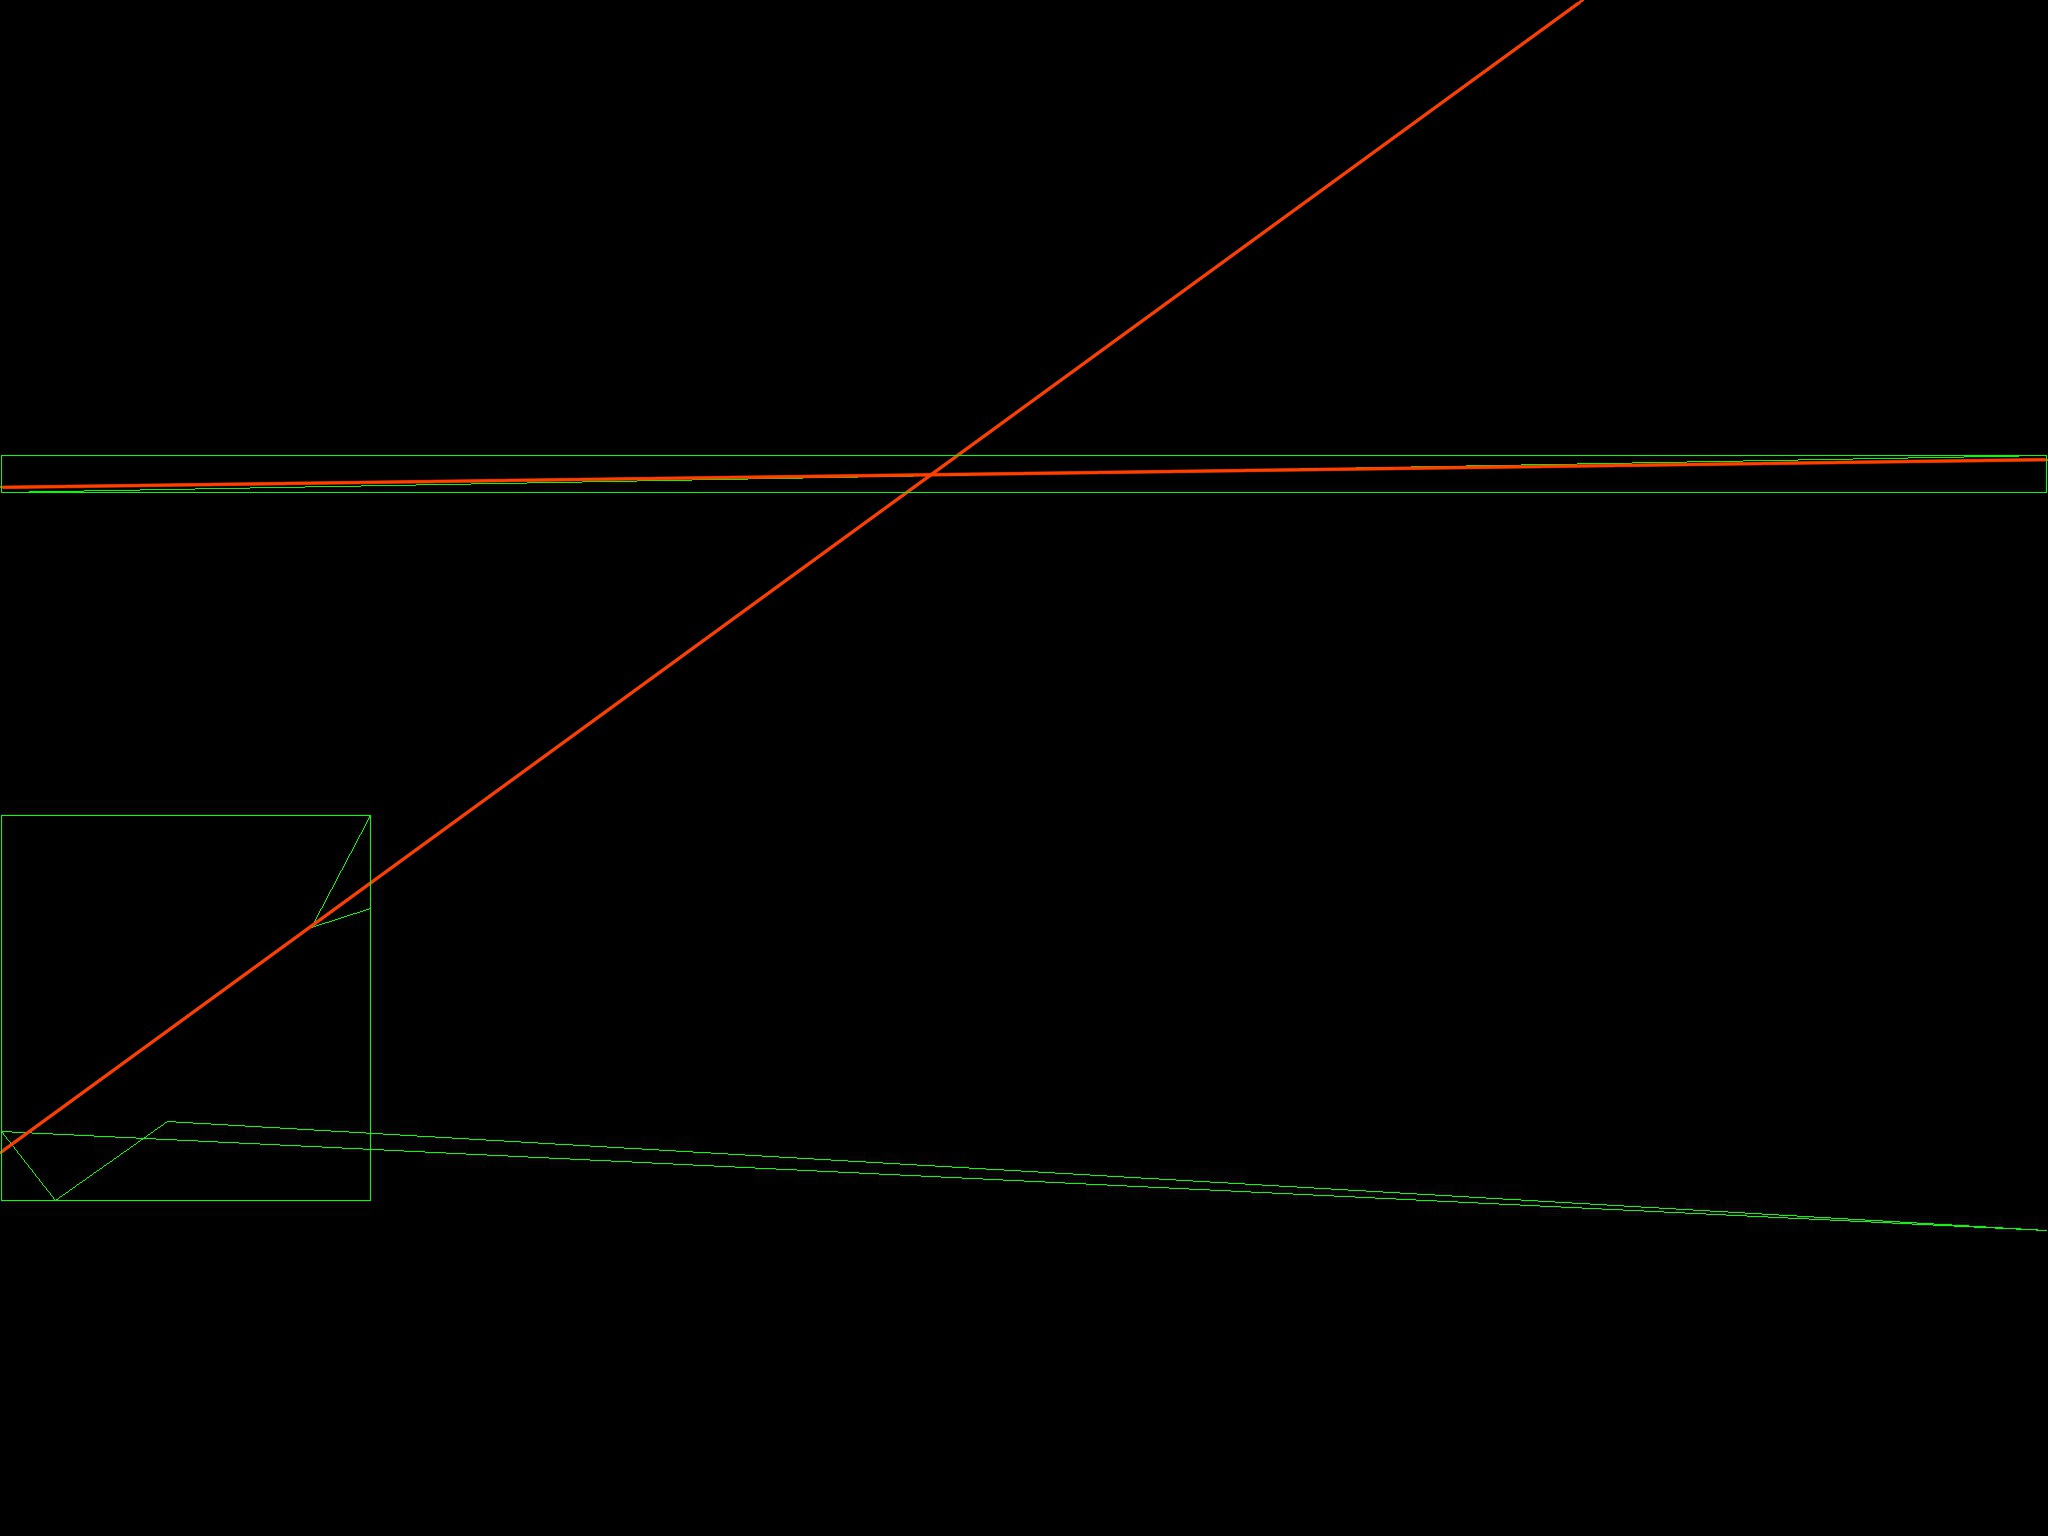
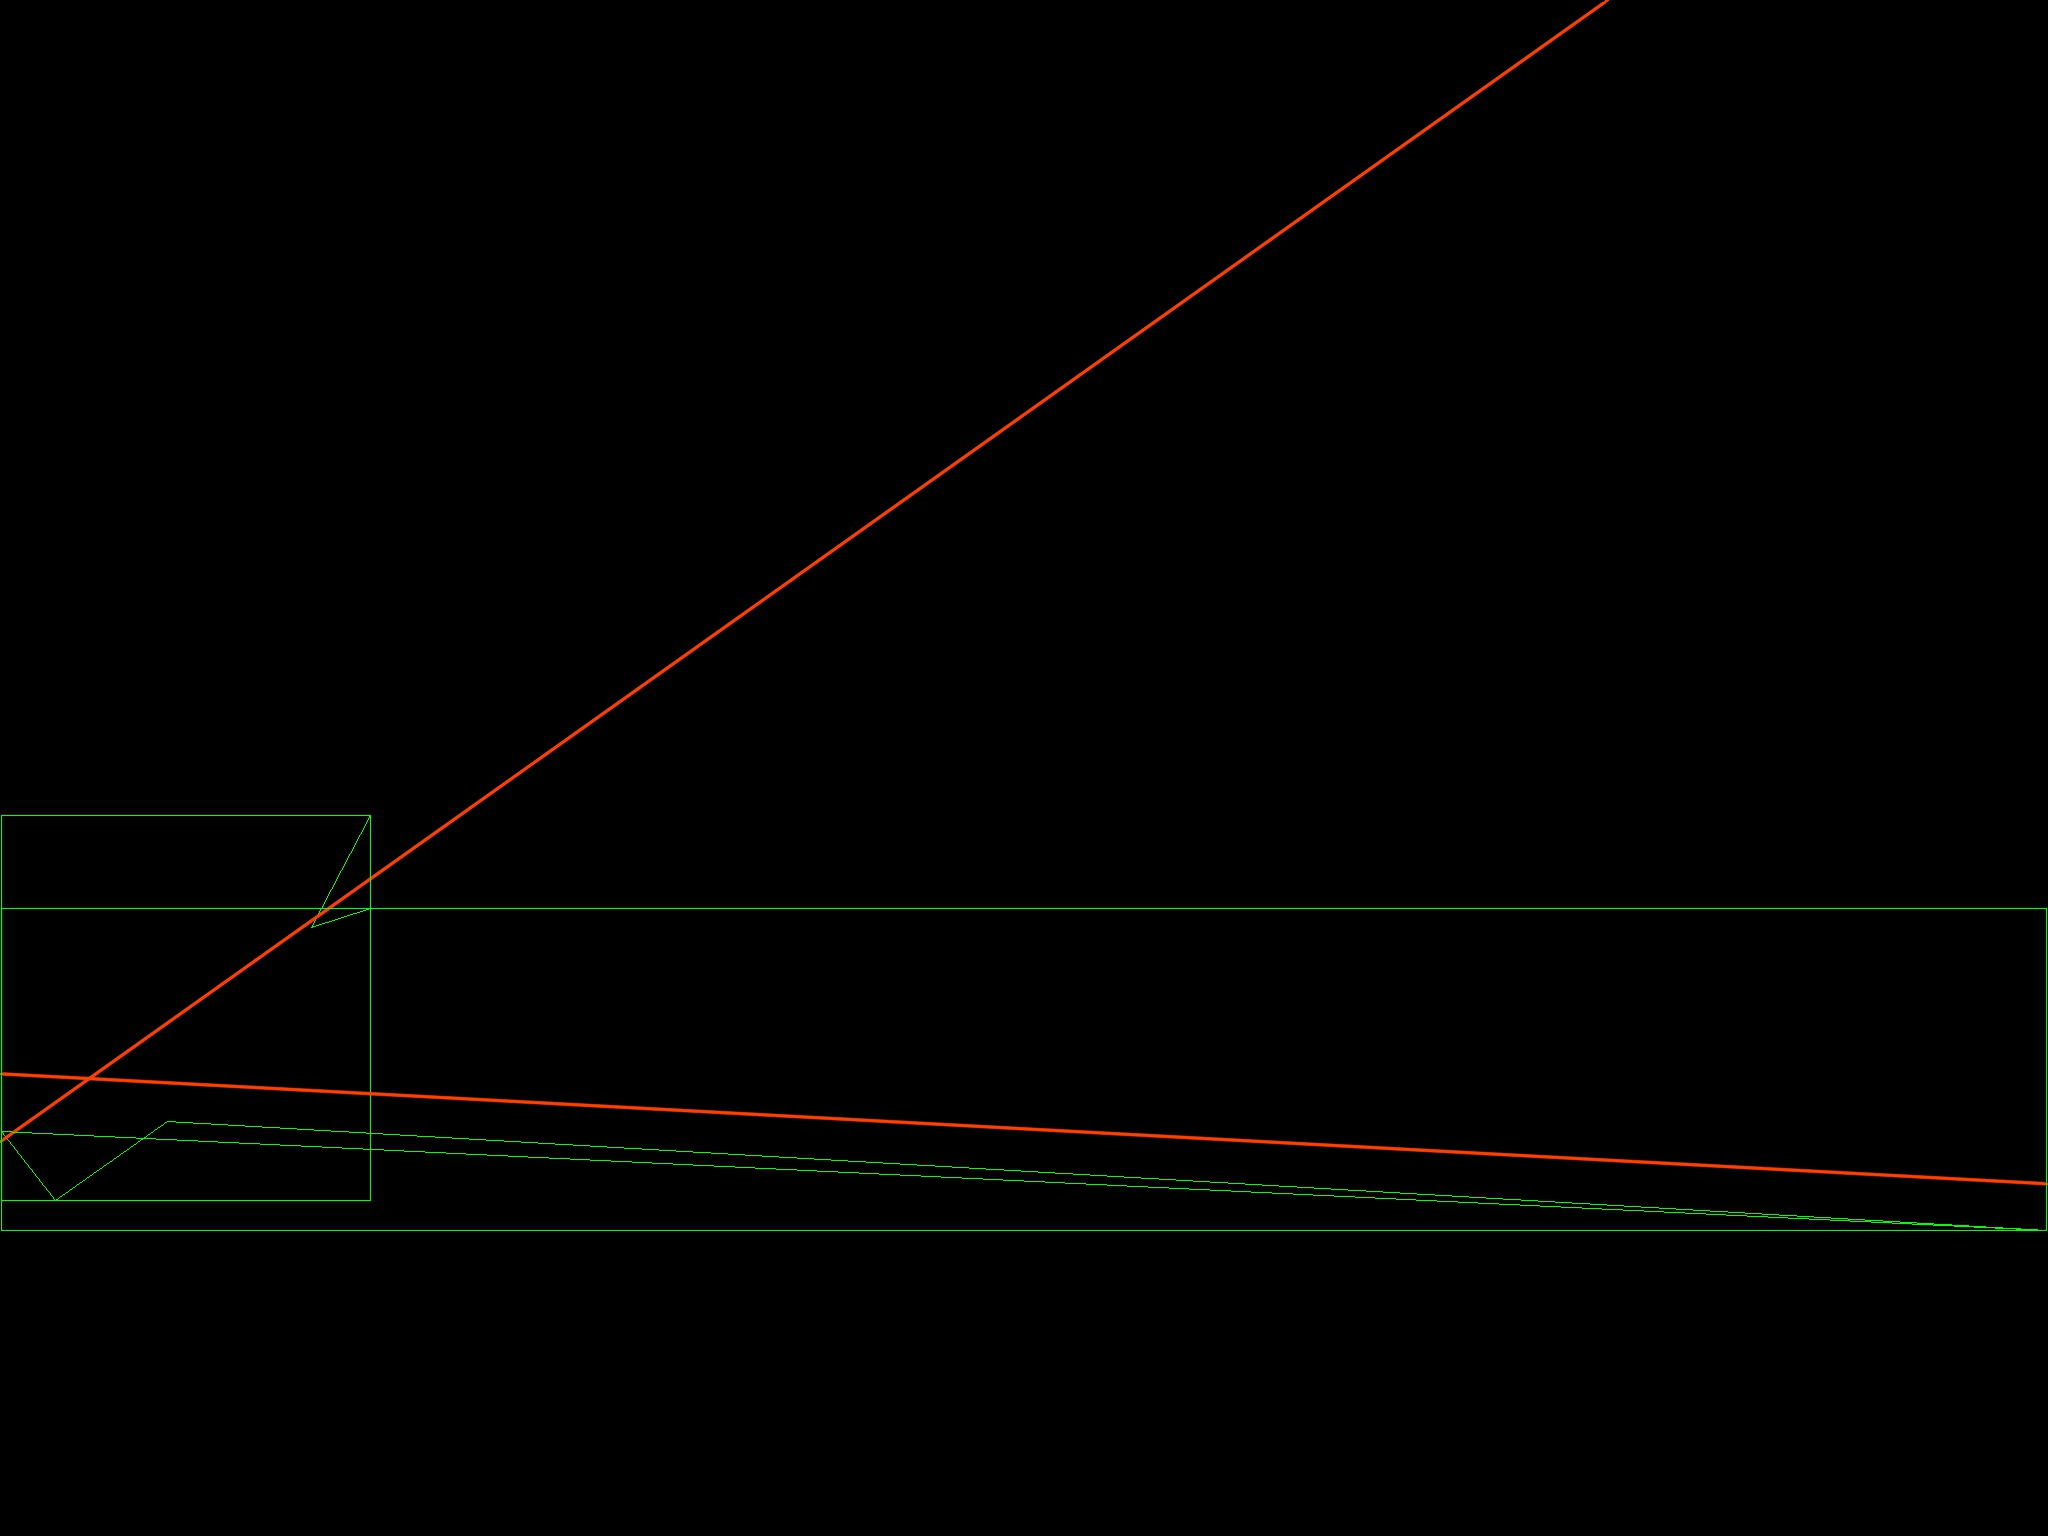
yep! go on Dancho...
may the force be with you

suck Shawn, suck

diff --git a/ocr/longest_closed.cc b/ocr/longest_closed.cc
@@ -43,6 +43,12 @@ Mat coord_clusters_munge ( Size size,
                            std::vector < std::vector<cv::Point> > contours_l0, std::vector < std::vector<cv::Point> > contours_l1,
                            Mat_<float> angles0, Mat_<float> angles1
                            );
+static void deal_with_geometry_when_not_enough_90d_angles(
+                                                          Size mat_size,
+                                                          std::vector<std::vector<cv::Point> > contoursDraw2,
+                                                          std::vector<double> len_contours_contoursDraw2,
+                                                          double min_line_length);
+
 // start here
 void longest_closed()
 {
@@ -123,7 +129,7 @@ void longest_closed()
    double min_line_length = max(mat.size().width, mat.size().height)/10.0;
    int min_closed_line_len = (mat.size().width + mat.size().height);
 
-   // filters out lines shorter than 200 px, straightens lines with approxPoly to contoursDraw(2), pushes to contours_long if > 5000 px..
+   // fills contoursDraw2 :: filters out lines shorter than 200 px, straightens lines with approxPoly to contoursDraw(2), pushes to contours_long if > 5000 px..
    for (int i=0; i < (int)contours.size(); i++){
 
      len = cv::arcLength(contours[i], true);
@@ -157,52 +163,92 @@ void longest_closed()
    // OK, this is the dotted line connection and expansion algorithm
    if ( _angle90_count<2 ) {
 
-     Mat_<float> angles, angles0, angles1;
-     Mat_<double> angle_centers;
-     Mat_<int> labels = angle_clusters(contoursDraw2, angles, angle_centers); /*DONE - go on from here - add centers as ref param*/
-     // std::cout << "angles ref: " << angles << ", angle centers: " << angle_centers  << std::endl;
-
-     std::vector< std::vector<cv::Point> > contours_l0;
-     std::vector< std::vector<cv::Point> > contours_l1;
-     double len_sum0=0.0, len_sum1=0.0;
-
-     for(int j=0; j<labels.rows; ++j){
-
-       if(labels(j,0)==0){
-         contours_l0.push_back(contoursDraw2[j]);
-         angles0.push_back(angles(j,0));
-         len_sum0+=len_contours_contoursDraw2[j];
-       }else if(labels(j,0)==1){
-         contours_l1.push_back(contoursDraw2[j]);
-         angles1.push_back(angles(j,0));
-         len_sum1+=len_contours_contoursDraw2[j];
-       }
-     } /*separate / divide into 2 groups with approximate 90 degree alignment */
-
-     std::cout << "angle_centers: " << angle_centers << "\n angles0: " << angles0 << ',' << "angles1: " << angles1 << "c0 and c1 sizes: " << contours_l0.size() << ',' << contours_l1.size() << "\nlen_sum0, len_sum1: " << len_sum0 << ',' << len_sum1 << "\nmin_line_length*5: " << min_line_length*5 << std::endl;
-
-     std::vector< std::vector<cv::Point> > dumm; Mat_<float> angles_dumm; /*2 dummies used as null pointers - no time to learn c++ :) */
-
-     if( contours_l0.size()>1 && len_sum0>min_line_length*5 )
-       coord_clusters( mat.size(), contours_l0, angles0, angle_centers(0,0)); /*DONE then pass center[0] or centers[1] here...*/
-     else if( contours_l0.size()<2 && len_sum0>min_line_length*5 ){
-       coord_clusters_munge( mat.size(), contours_l0, dumm, angles0, angles_dumm );
-     }
-
-     if( contours_l1.size()>1 && len_sum1>min_line_length*5 )
-       coord_clusters( mat.size(), contours_l1, angles1, angle_centers(1,0)); /*DONE then pass center[0] or centers[1] here...*/
-     else if( contours_l1.size()<2 && len_sum1>min_line_length*5 ){
-       coord_clusters_munge( mat.size(), contours_l1, dumm, angles1, angles_dumm );
-     }
+     deal_with_geometry_when_not_enough_90d_angles( mat.size(), contoursDraw2, len_contours_contoursDraw2, min_line_length);
    }
 
    cv::drawContours(poly, contoursDraw2, -1, cv::Scalar(0,255,0),1);
-   // cv::drawContours(poly, contours_l0, -1, cv::Scalar(0,255,0),1);
    cv::drawContours(clong, contours_long, -1, cv::Scalar(0,255,0),1);
 
    cv::imwrite( "./img_pre/long2.jpg", drawing);
    cv::imwrite( "./img_pre/long3.jpg", poly);
    cv::imwrite( "./img_pre/long4.jpg", clong);
+}
+
+// splits contours to dotted lines, no matter if closed or not - should get just a collection of 2 point straight vanilla lines
+static void split_contours_2_dotted_lines( std::vector<std::vector<cv::Point> > &contoursDraw2, std::vector<double> &len_contours_contoursDraw2 ){
+
+  std::vector<std::vector<cv::Point> > contoursDraw3;
+  std::vector<cv::Point> line_tmp;
+  std::vector<double> len_contours_contoursDraw3;
+
+  for ( int i=0; i < (int)contoursDraw2.size(); i++ ) {
+
+    if ( contoursDraw2[i].size()<3 ){
+      contoursDraw3.push_back(contoursDraw2[i]);
+      len_contours_contoursDraw3.push_back( arcLength(contoursDraw2[i], false) );
+      continue;
+    }
+    int ssize = (int)contoursDraw2[i].size();
+    for ( int j=0; j<ssize; ++j ) {
+      line_tmp.clear();
+      line_tmp.push_back( contoursDraw2[i][j] );
+      (j<ssize-1) ? line_tmp.push_back( contoursDraw2[i][j+1] ) : line_tmp.push_back( contoursDraw2[i][0] ); /*connect last dot to first one???*/
+      contoursDraw3.push_back( line_tmp  );
+      len_contours_contoursDraw3.push_back( arcLength(line_tmp, false) );
+    }
+  }
+
+  contoursDraw2 = contoursDraw3;
+  len_contours_contoursDraw3 = len_contours_contoursDraw2;
+}
+
+static void deal_with_geometry_when_not_enough_90d_angles(
+                                                          Size mat_size,
+                                                          std::vector<std::vector<cv::Point> > contoursDraw2,
+                                                          std::vector<double> len_contours_contoursDraw2,
+                                                          double min_line_length
+                                                          ){
+
+  // shall we work? - well :) maybe - c u next time :) suck Shawn, suck
+  split_contours_2_dotted_lines ( contoursDraw2, len_contours_contoursDraw2 );
+
+  Mat_<float> angles, angles0, angles1;
+  Mat_<double> angle_centers;
+  Mat_<int> labels = angle_clusters(contoursDraw2, angles, angle_centers); /*DONE - go on from here - add centers as ref param*/
+  // std::cout << "angles ref: " << angles << ", angle centers: " << angle_centers  << std::endl;
+
+  std::vector< std::vector<cv::Point> > contours_l0;
+  std::vector< std::vector<cv::Point> > contours_l1;
+  double len_sum0=0.0, len_sum1=0.0;
+
+  for(int j=0; j<labels.rows; ++j){
+
+    if(labels(j,0)==0){
+      contours_l0.push_back(contoursDraw2[j]);
+      angles0.push_back(angles(j,0));
+      len_sum0+=len_contours_contoursDraw2[j];
+    }else if(labels(j,0)==1){
+      contours_l1.push_back(contoursDraw2[j]);
+      angles1.push_back(angles(j,0));
+      len_sum1+=len_contours_contoursDraw2[j];
+    }
+  } /*separate / divide into 2 groups with approximate 90 degree alignment */
+
+  std::cout << "angle_centers: " << angle_centers << "\n angles0: " << angles0 << ',' << "angles1: " << angles1 << "c0 and c1 sizes: " << contours_l0.size() << ',' << contours_l1.size() << "\nlen_sum0, len_sum1: " << len_sum0 << ',' << len_sum1 << "\nmin_line_length*5: " << min_line_length*5 << std::endl;
+
+  std::vector< std::vector<cv::Point> > dumm; Mat_<float> angles_dumm; /*2 dummies used as null pointers - no time to learn c++ :) */
+
+  if( contours_l0.size()>1 && len_sum0>min_line_length*5 )
+    coord_clusters( mat_size, contours_l0, angles0, angle_centers(0,0)); /*DONE then pass center[0] or centers[1] here...*/
+  else if( contours_l0.size()<2 && len_sum0>min_line_length*5 ){
+    coord_clusters_munge( mat_size, contours_l0, dumm, angles0, angles_dumm );
+  }
+
+  if( contours_l1.size()>1 && len_sum1>min_line_length*5 )
+    coord_clusters( mat_size, contours_l1, angles1, angle_centers(1,0)); /*DONE then pass center[0] or centers[1] here...*/
+  else if( contours_l1.size()<2 && len_sum1>min_line_length*5 ){
+    coord_clusters_munge( mat_size, contours_l1, dumm, angles1, angles_dumm );
+  }
 }
 
 static float angle_2points ( cv::Point p1, cv::Point p2 ) {
